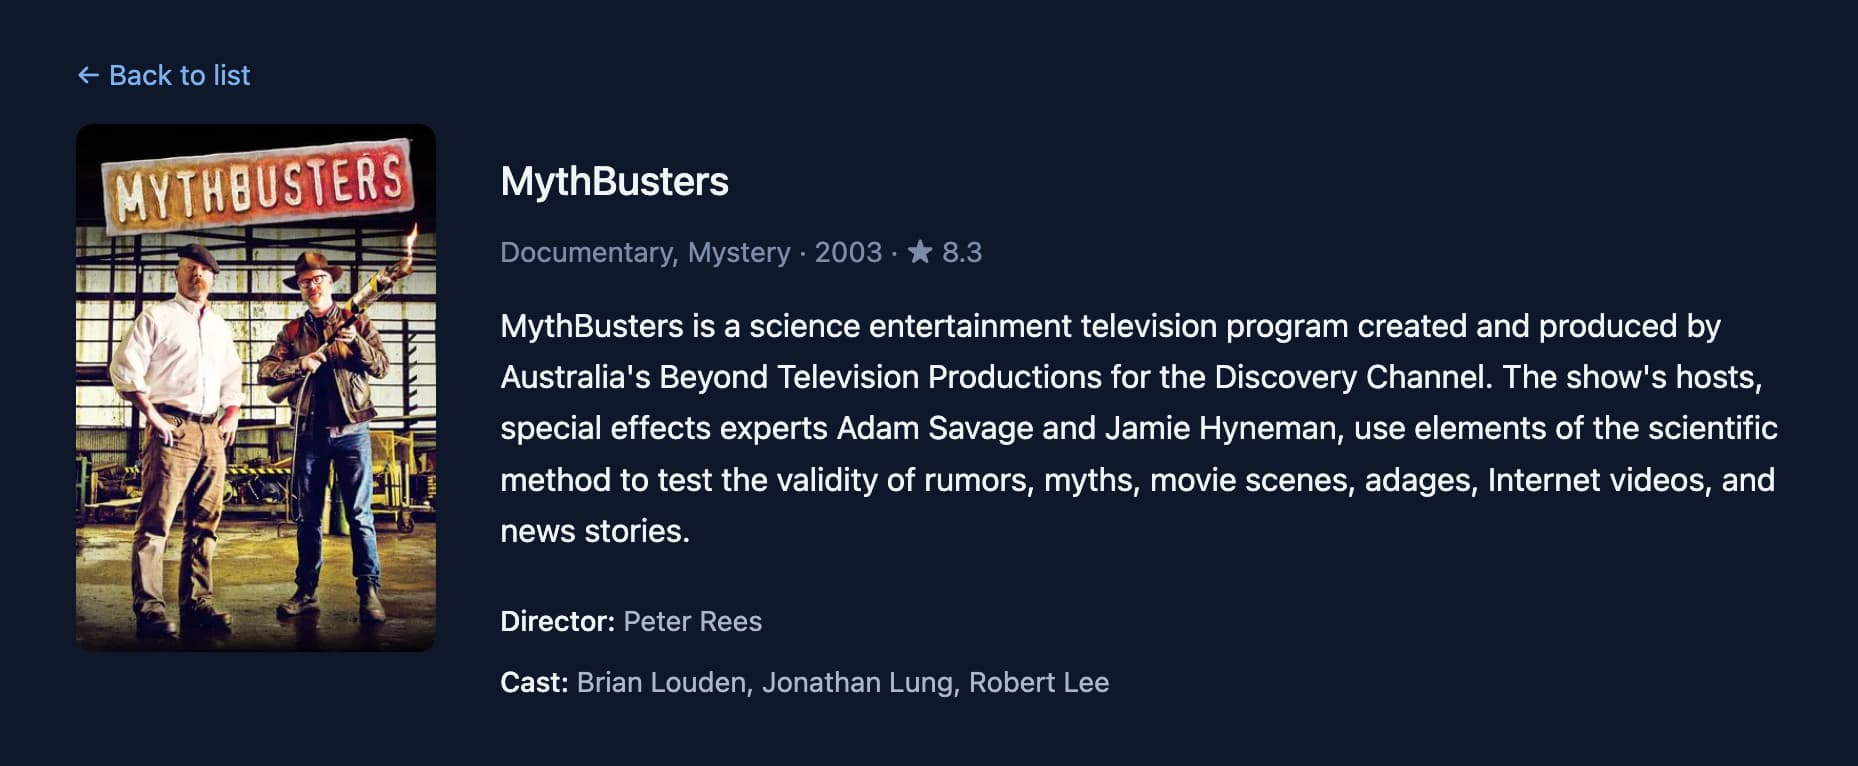
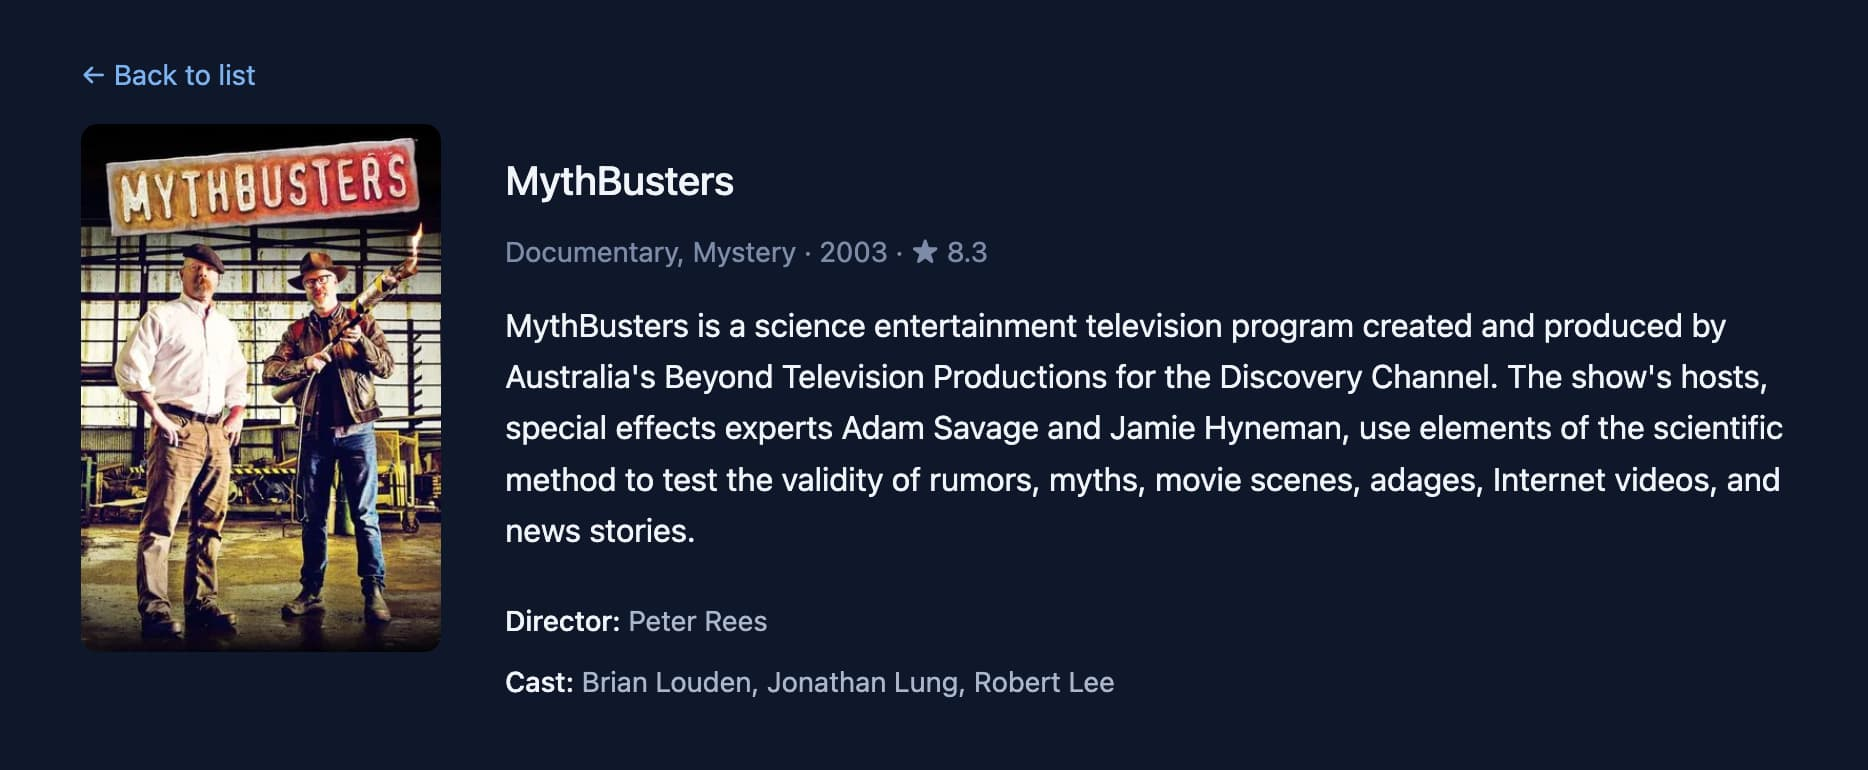
Update README with live URL, search/pagination features, and new screenshots

Changed region(s): [[0.0312, 0.1802, 0.9677, 0.8407], [0.2497, 0.8708, 0.5931, 0.9308], [0.0312, 0.0901, 0.1561, 0.1201]]

diff --git a/README.md b/README.md
@@ -2,42 +2,45 @@
 
 Full-stack app for browsing a personal media library: a Node/Express/TypeScript API on top of a Python-fed SQLite database, and a React/TypeScript frontend.
 
+**Live demo**: [mediacore.zoltanlederer.com](https://mediacore.zoltanlederer.com)
+
 Part of a three-project series: `MediaCore` → `MediaReco` → `MediaHome`.
 
 ## Screenshots
 
-![List view with filters, pagination, and watched status](./screenshots/list-view.jpg)
+![List view with search, filters, pagination, and watched status](./screenshots/list-view.jpg)
 
 ![Detail view for a single title](./screenshots/detail-view.jpg)
 
 ## Stack
-- **Backend**: Node.js, Express, TypeScript, better-sqlite3
-- **Frontend**: React, TypeScript, Vite, React Router
+- **Backend**: Node.js, Express, TypeScript, better-sqlite3 — deployed on Render
+- **Frontend**: React, TypeScript, Vite, React Router — deployed on Porkbun Static Hosting
 - Demo dataset: 287 titles from a personal Plex library
 
 ## Backend
 
-- `GET /media` — list titles, with optional filtering and pagination
+- `GET /media` — list titles, with optional search, filtering, and pagination
+  - `?search=rocky` — search by title (partial match)
   - `?genre=Action` — filter by genre (partial match)
   - `?type=movie` or `?type=tv_show` — filter by media type (exact match)
   - `?page=2&limit=20` — pagination, response includes total count
-  - Filters can be combined, e.g. `?genre=Action&type=movie&page=2`
+  - Filters can be combined, e.g. `?search=rocky&genre=Action&type=movie&page=2`
 - `GET /genres` — deduplicated, sorted list of all genres in the library
 - `GET /media/:index` — fetch a single title by its index
 - `PATCH /media/:index/watched` — toggles a title's watched status
+- Results sorted alphabetically by title (case-insensitive)
 
 ## Frontend
 
-- List view (`/`) — data table with poster thumbnails, clickable titles, genre/type filter dropdowns, pagination controls, and an inline watched-status toggle
+- List view (`/`) — data table with poster thumbnails, clickable titles, a debounced search field, genre/type filter dropdowns, page-number pagination, and an inline watched-status toggle
 - Detail view (`/media/:index`) — full info for a single title, fetched independently of the list so it works correctly regardless of active filters/pagination
-- Filters and pagination are stored in the URL (not just component state), so the current view is refresh-safe, bookmarkable, and works with browser back/forward
+- Filters, search, and pagination are stored in the URL (not just component state), so the current view is refresh-safe, bookmarkable, and works with browser back/forward
 - Shared state (fetched data, filters, handlers) is provided via `useContext`, avoiding prop drilling across components
-- Responsive layout for mobile (stacked header, scrollable table, stacked detail view)
-- Dark theme with a consistent accent color system
+- Loading states with a spinner, shown especially on cold-start (Render's free tier spins down after inactivity)
+- Responsive layout for mobile (stacked header, scrollable table, stacked pagination, stacked detail view)
+- Dark theme with a consistent accent color system, custom favicon
 
 ## Known Limitations
 - Genre filtering supports one genre at a time. Multi-genre search (e.g. Action *or* Comedy) is planned for `MediaHome` project.
 - `Sci-Fi` and `Science Fiction` currently appear as separate genre values due to inconsistent labeling from different data sources — planned fix in `MediaHome` project.
-
-## Status
-Complete: backend routes, filtering, pagination, full React frontend with routing/forms/context, styling, and responsive layout. Remaining: deployment.
+- Backend runs on Render's free tier, so the first request after inactivity can take up to a minute (a loading state is shown during this).
